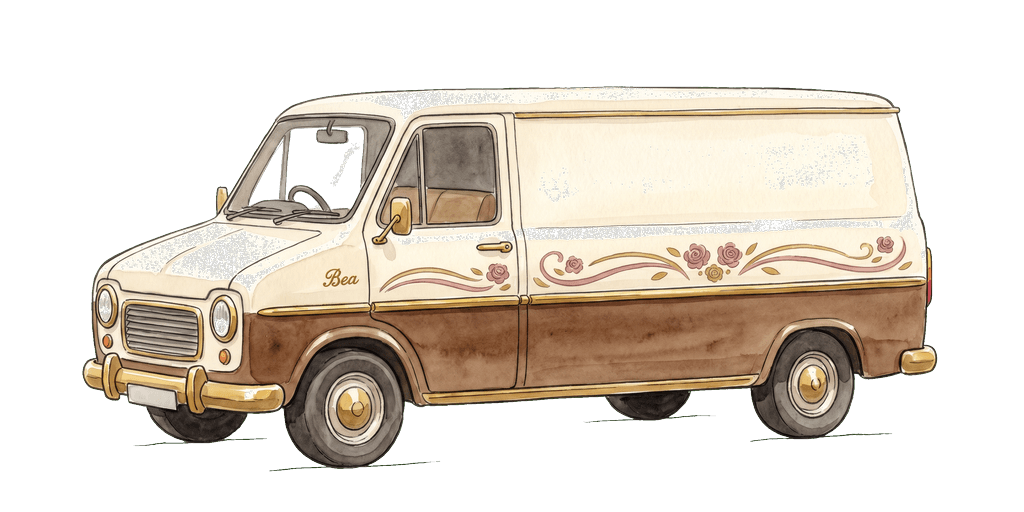
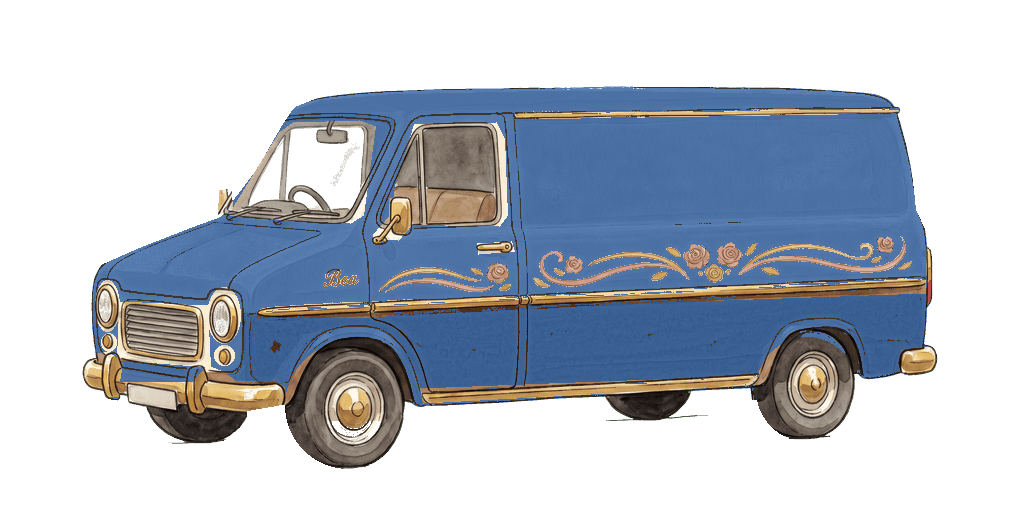
feat(assets): the three van portraits, Henry maroon, Bea slate blue, Spark leaf green
Henry, Bea and Spark were three near-identical cream vans. The repaint came back from Manus on measurement: body medians (143,53,55), (74,112,164) and (116,156,102) against targets of (142,52,54), (74,112,164) and (116,156,102), lightness 80.1, 106.6 and 137.9 against 79, 107 and 138, and the colour on the roof of all three. Spark's see-through body is fixed: semi-transparent pixels inside his silhouette go from 20.7% to 4.5%.

The sources were already 8-bit indexed, so nothing was re-quantised. The install forces the palette's near-opaque entries (alpha 240-254, 2,861 / 1,825 / 3,440 px) to 255; no pixel's RGB and no other alpha moved, checked on the decoded files. The three are 87,091 bytes lighter, and the drawn box loses 3-15 px of height because the old ground smudge is gone. Originals are in manus-output/install-2026-10-09/.

The five installed bodies, measured off the files, clear the fleet tests on every pair: tightest colour distance 86.9 (Bea / Spark), tightest grey gap 23.0 (Trikey / Big Tilly). That 23.0 is not the palette table's 26.4: Big Tilly's installed body measures (241,175,119), not (238,183,116), and it swings from 26.0 to 17.4 as the measuring radius widens from 30 to 60, so it is the pair to watch. Nothing was adjusted to make a pair pass.
[…]

diff --git a/.claude/notes/openai-recommission-2026-10-09.md b/.claude/notes/openai-recommission-2026-10-09.md
@@ -222,3 +222,108 @@ All ten clear both. Tightest colour distance 86.9 (Bea/Spark), tightest grey gap
 `pnpm -r typecheck` clean. `pnpm -r lint` 0 errors (apps/game 34 warnings, game-logic 11, unchanged). Tests **946 game-logic, 623 apps/game** (and 7 in badges), unchanged. `pnpm check:sprites` 557/600 with the 43 known failures allowed.
 
 Screenshots, real Chrome with Playwright, are in `manus-output/install-2026-10-09/` (gitignored): `loading-812x375.png`, `loading-820x620.png` (the screen as it opens, crates in the tray), `filled-812x375.png`, `filled-820x620.png` (Big Tilly loaded, all six crates on the bed), `loading-trikey-*.png`, `portraits-812x375.png`, `portraits-820x620.png` (the vehicle-choice screen), `trikey-before-after.png`.
+
+---
+
+## 9. Installed: the three van portraits (2026-10-09, later still)
+
+Answers section 6's "no installer exists" for the vans, and supersedes section 8.2's "Not measured: the fleet as it stands *installed*". Henry, Bea and Spark are installed; the top-downs are **not** commissioned (they are painted from these, next); nothing deployed. Branch `claude/crate-loading`.
+
+### 9.1 Re-measured before installing, and section 2 held
+
+Same method as section 2 (body = opaque pixels within 45 of the target, median; roof = median of the top 18% of the silhouette box, ink excluded), run on `manus-output/van-portraits/` before anything was copied.
+
+| | body median | worst channel off target | L | dL | roof median | body share | margins L/T/R/B | palette entries used |
+|---|---|---|---|---|---|---|---|---|
+| Henry | (143, 53, 55) | 1 | 80.1 | +1.0 | (142, 53, 55) | 46.9% | 128 / 66 / 128 / 65 | 188 |
+| Bea | (74, 112, 164) | 0 | 106.6 | 0.0 | (76, 113, 164) | 63.4% | 82 / 86 / 86 / 43 | 187 |
+| Spark | (116, 156, 102) | 0 | 137.9 | 0.0 | (116, 156, 102) | 64.2% | 161 / 73 / 162 / 66 | 190 |
+
+Body medians, roofs, margins and the 1024x512 canvas are the note's, to the digit. Body share is within 0.6 of the note's 47.0 / 63.5 / 64.8 (the note does not record its opaque threshold; the figure moves by about a point across thresholds, 62.1 to 66.5 on Spark). **Spark's see-through fix reproduces: semi-transparent pixels (alpha 1 to 192) inside the closed silhouette 20.7% on the old portrait, 4.5% on the new; fully clear inside the silhouette 9.5% to 2.5%.** (Counting every alpha from 1 to 249 as semi-transparent, which includes the soft edge, gives 24.9% to 7.0%; the note's 4.5% is the 1-to-192 reading.) Henry's and Bea's are under 1.5%.
+
+### 9.2 What was overwritten, and where the originals are
+
+The portraits live in one place: `apps/game/public/assets/driving/vehicles/vehicle-{henry,bea,spark}.png`, tracked in git (HEAD blobs `eaa6eac`, `bf787da`, `3962668`). Originals are copied to **`manus-output/install-2026-10-09/vehicle-{henry,bea,spark}-BEFORE-installed.png`**, shasum-checked against the installed bytes before the overwrite.
+
+| | | bytes | sha256 (12) | margins L/T/R/B | drawn | palette |
+|---|---|---|---|---|---|
+| Henry | before | 141,918 | d330bf7c9399 | 128 / 65 / 128 / 61 | 768x386 | 256 |
+| | **after** | **127,733** | 0be54b120a82 | 128 / 66 / 128 / 65 | 768x381 | 188 |
+| Bea | before | 162,652 | 3ae7a3291f9a | 82 / 86 / 86 / 40 | 856x386 | 256 |
+| | **after** | **135,622** | 474dd39bb584 | 82 / 86 / 86 / 43 | 856x383 | 187 |
+| Spark | before | 160,278 | 90df674a443c | 153 / 73 / 158 / 51 | 713x388 | 256 |
+| | **after** | **114,402** | b5751830d7c4 | 161 / 73 / 162 / 66 | 701x373 | 190 |
+
+All six are mode P, 1024x512. The three are 87,091 bytes lighter in all. The drawn box shrinks by 5, 3 and 15 px in height because the old portraits carried a ground smudge under the wheels and the brief said to leave it out; Spark is also 12 px narrower for the same reason. Left and right margins on Henry and Bea are unchanged.
+
+**A fourth copy of Henry exists and was left alone.** `apps/game/public/assets/driving/vehicle-henry.png` (the old path, directly under `driving/`, tracked) is byte-identical to the old Henry (sha d330bf7c9399). Nothing in code names it. Only docs do (`docs/arc-site-tier1-brief.md` lines 101 and 247, `docs/plan-driving-engine-2026-07-04.md` line 101). So the repo now holds the new maroon Henry at `vehicles/` and the old cream Henry at the old path, and a URL to the old path serves cream. It is outside the three files this install was scoped to; delete it or sync it, Marcus's call. Bea and Spark have no second copy.
+
+**How.** The sources are already 8-bit indexed PNGs (187 to 190 palette entries, 1024x512), so nothing was re-quantised; re-quantising would only add error. What section 6 asked for beyond that is the near-opaque fix, and it is a change to the palette's alpha table alone: entries at alpha 240 to 254 forced to 255 (6, 6 and 7 entries; 2,861, 1,825 and 3,440 px), as `install-crates.py` does. Verified on the decoded pixels, not the indices: the RGB of every visible pixel is identical to the source and no alpha moved except the forced ones. A throwaway script did it (not committed; the procedure is the paragraph above). `tools/install-vehicles.py` was not touched and does not need a flag: it is for top-downs.
+
+### 9.3 Re-measured after installing: the numbers survived
+
+| | body median | L | roof median | body share | margins | semi-transparent (alpha 1-192) | clear inside |
+|---|---|---|---|---|---|---|---|
+| Henry | (143, 53, 55) | 80.1 | (142, 53, 55) | 46.9% | 128 / 66 / 128 / 65 | 1.2% | 2.2% |
+| Bea | (74, 112, 164) | 106.6 | (76, 113, 164) | 63.4% | 82 / 86 / 86 / 43 | 0.8% | 2.4% |
+| Spark | (116, 156, 102) | 137.9 | (116, 156, 102) | 64.2% | 161 / 73 / 162 / 66 | 4.5% | 2.5% |
+
+Identical to 9.1 on every colour and geometry figure. The only difference is the forced alpha: fully opaque pixels (alpha 250 or more) inside Spark's silhouette 90.5% to 91.3%, Henry 96.0% to 96.3%, Bea 96.4% to 96.5%. For contrast, what was installed before: Henry cream with a maroon roof edge and skirt, Bea ivory over a chocolate-brown lower half, Spark white with a thin green flash. A body-wash search around the new targets finds 7.7% of Henry's opaque pixels (the old maroon roof and skirt, median (134, 47, 64)), none of Bea's, and 10.1% of Spark's (a grey, median (128, 131, 116), which is the see-through patches).
+
+### 9.4 The fleet, measured from the installed files
+
+Method as `fleet.py` used earlier today: body = median of opaque (alpha 200 or more) pixels within 45 of the recorded palette colour. Colour distance is Euclidean RGB against 60; grey gap is 0.299R + 0.587G + 0.114B against 20.
+
+| | recorded palette | measured, installed | L recorded | L measured |
+|---|---|---|---|---|
+| Henry | (142, 52, 54) | (143, 53, 55) | 79.1 | 80.1 |
+| Bea | (74, 112, 164) | (74, 112, 164) | 106.6 | 106.6 |
+| Spark | (116, 156, 102) | (116, 156, 102) | 137.9 | 137.9 |
+| Trikey | (180, 152, 196) | (180, 152, 196), and the lilac hue-band median agrees | 165.4 | 165.4 |
+| Big Tilly | (238, 183, 116) | **(241, 175, 119)** | 191.8 | **188.3** |
+
+| pair | colour distance | grey gap | recorded palette gives | |
+|---|---|---|---|---|
+| Henry / Bea | 141.9 | 26.4 | 142.6 / 27.4 | pass |
+| Henry / Spark | 116.4 | 57.7 | 117.5 / 58.7 | pass |
+| Henry / Trikey | 176.2 | 85.2 | 177.8 / 86.2 | pass |
+| Henry / Big Tilly | 169.1 | 108.2 | 173.8 / 112.7 | pass |
+| Bea / Spark | 86.9 | 31.3 | 86.9 / 31.3 | pass |
+| Bea / Trikey | 117.7 | 58.8 | 117.7 / 58.8 | pass |
+| Bea / Big Tilly | 184.1 | 81.8 | 185.0 / 85.2 | pass |
+| Spark / Trikey | 113.8 | 27.5 | 113.8 / 27.5 | pass |
+| Spark / Big Tilly | 127.6 | 50.5 | 125.7 / 53.9 | pass |
+| **Trikey / Big Tilly** | **100.9** | **23.0** | 103.6 / 26.4 | pass, by 3.0 |
+
+All ten clear both thresholds. Tightest colour 86.9 (Bea / Spark), tightest grey 23.0 (Trikey / Big Tilly). The ladder as measured: Henry 80.1, Bea 106.6, Spark 137.9, Trikey 165.4, Big Tilly 188.3.
+
+**Where this disagrees with the palette table.** Two places. Henry delivered one point above his target in each channel, which takes a point off the grey gap of every Henry pair (26.4 against 27.4 for Henry / Bea): inside the brief's tolerance, and the only change in the three vans. And **Big Tilly is not the colour the table records**: (241, 175, 119) against (238, 183, 116), 3.5 darker, which takes 3.5 off the grey gap of all four of her pairs and the Trikey / Big Tilly gap from the table's 26.4 to 23.0. This confirms the earlier agent's reading.
+
+**The Trikey / Big Tilly figure is soft, and the reason is Tilly, not Trikey.** Her portrait has two large colour families, not one body: red-coral (the cab, 40% of her opaque pixels, median (223, 96, 72), L 131.2) and orange-tan (the bed and hull, 39%, median (220, 162, 112), L 173.6, with a lightness spread of 125 to 219 from the 10th to the 90th percentile). "Her body" is whichever you pick, and the 23.0 comes from the pale end of the tan, found by a ball around the table's (238, 183, 116). The radius moves it:
+
+| ball around (238, 183, 116) | median | L | gap to Trikey |
+|---|---|---|---|
+| radius 30 | (244, 181, 107) | 191.4 | 26.0 |
+| **radius 45** (the method used above) | (241, 175, 119) | 188.3 | **23.0** |
+| radius 60 | (238, 167, 119) | 182.8 | 17.4 (fails) |
+| the whole orange-tan family | (220, 162, 112) | 173.6 | 8.2 (fails) |
+| the red-coral cab | (223, 96, 72) | 131.2 | 34.2 |
+
+In the greyscale row of `vans-fleet-portraits.png` Tilly's cab reads darker than Trikey's lilac and her bed lighter, so a child who cannot tell colours apart is helped by the cab and the bed together, not by one wash. Nothing here fails on the method the earlier notes used, and nothing was adjusted. What is open is the question of what "Big Tilly's body" is for this test. It matters more once the top-downs exist, because from above the bed is most of what is seen.
+
+### 9.5 Does anything in the game read these portraits?
+
+**Nothing sizes from them, draws them or measures them.** Evidence:
+
+- **The repo.** Searched everything outside `node_modules`, `dist`, `dist-ios`, `ios/App`, `manus-output` and `.git`. The three filenames appear in docs only (the three lines in 9.2 and `docs/briefs/vehicle-livery-pass.md` lines 20 to 23). The one page that builds the path is `apps/game/public/admin/pre-drive.html` line 703, `'/assets/driving/vehicles/vehicle-' + v.sprite + '.png'`, for `henry`, `bea`, `spark`, `trikey` and `big-tilly`.
+- **`apps/game/src`.** No `driving/vehicles` path anywhere, no `vehicle-` template that could build one, no iteration over texture keys. Every `vehicle-` filename is `vehicle-topdown-*`. `VEHICLE_SPRITE` (`fleet-art.ts` 19 to 23) maps all five vehicles to top-downs, `PtvDriveScene.preload` loads from `/assets/driving/topdown/`, and the only tests that read pixels (`fleet-art.test.ts` 1058, 1216, 1224) read `topdown/`. `check:sprites` scans `assets/animals` only.
+- **Live, in real Chrome.** `?ptvDemo=1`, the real `PtvDriveScene`: 76 requests under `/assets/driving/`, 69 of them top-downs, **none for a portrait or the old-path Henry**; the Phaser texture cache holds none of `vehicle-henry/bea/spark/big-tilly/trikey`; none is on any display list. `pre-drive.html`: five portrait requests, each shown at 151x76 from a natural 1024x512, the whole canvas fitted into the 150x84 `object-fit: contain` box. That is a function of the canvas, and the canvas is 1024x512 on all three, before and after.
+- **The top-downs did not move.** `git status` shows no top-down changed by this install (the two modified PNGs in the tree are another agent's). The picker and the loading screen draw them unchanged; the picker's measured top-down sizes at 820x620 are Trikey 46x107, Henry 107x249, Bea 110x269, Spark 122x356, Big Tilly 140x393.
+
+**One thing the earlier statement leaves out, and it is why this is not quite "nothing reads them".** The full game fetches them. `plugins/asset-manifest.ts` lists every file under `public/assets`; `AssetLoader.parseEntry` files `assets/driving/vehicles/vehicle-*.png` under category `ui`, tier `essential`, key `vehicle-henry` and so on (confirmed by asking the loader through the page: all five come back `[ui/essential]`); and `LoadingScene` (245), `MainMenuScene` (69) and `GameScene` (379) call `startBackgroundLoad`, which `load.image`s the lot. So in the full game the five portraits are downloaded and decoded into the texture cache as 1024x512 textures, and then nothing ever names them. (`?ptvDemo=1` has no manifest, which is why the live check above shows them absent.) I did not boot the full game, which needs a sign-in. It is a load cost, not a read: nothing is derived from them, and the only thing this install moved is their weight, 87,091 bytes less. If they should not be fetched at all, the manifest scan already skips underscore-prefixed files, and that is the lever. I read it as not the stop condition you described (a portrait that something is sized from) and installed.
+
+### 9.6 Gate, and where the pictures are
+
+`pnpm -r typecheck` clean. `pnpm -r lint` 0 errors (apps/game 34 warnings, game-logic 11, unchanged). Tests **946 game-logic, 633 apps/game, 7 badges**, unchanged. `pnpm check:sprites` 557/600 with the 43 known failures allowed.
+
+Screenshots, real Chrome, in `manus-output/install-2026-10-09/` (gitignored): `vans-fleet-portraits.png` (the five installed portraits, colour above and greyscale below, on one scale), `vans-predrive-row-820x620.png` and `vans-predrive-row-812x375.png` (the vehicle cards, the only place the portraits are drawn), `vans-predrive-820x620.png` and `vans-predrive-812x375.png` (the whole page), `vans-picker-820x620.png` and `vans-picker-812x375.png` (the car park forecourt with all five, at true scale), `vans-henry-820x620.png`, `vans-bea-820x620.png`, `vans-spark-820x620.png` (the loading bays). **The car park still draws Henry and Bea cream and Spark white**, because it draws top-downs and the top-downs are not repainted. The new liveries reach a child only when they are. That is the next commission. It still needs these portraits deployed first (Rule 1). The repaint commits `b829999` and `a08ab96`, which section 6 called unpushed, are now ancestors of `origin/claude/crate-loading`, so they are pushed on this branch; what the live URLs serve I did not check (`van-repaint-2026-10-09.md` section 4 has the `shasum` check).
